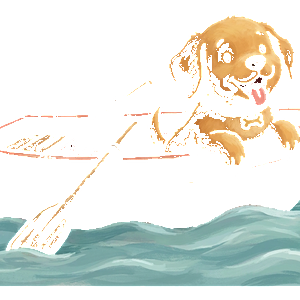
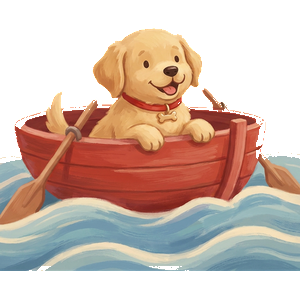
fix(musicbox-v2): magenta chroma pipeline + composite judge gate
Regenerate row vehicle sprite (Pip in rowboat) with proper chroma key.
Add missing images.ts entries for jingle/fg and jingle/obj_ground_gift_red
that were dropped when the previous broken assets were deleted.

Pipeline improvements (gen_musicbox_scene.py, already committed by
another agent): magenta sky validation for mid/fg strips, 20% minimum
transparency check on sprites, composite judge gate (dual-judge
strict-min on the assembled scene), 2x tile-join verification, and
"all" mode for batch generation.

tsc clean, vitest 352/357 (5 failures in escape.test.ts are
pre-existing from another agent's escape logic changes).

diff --git a/src/assets/images.ts b/src/assets/images.ts
@@ -1682,9 +1682,11 @@ export const UI_IMAGES = {
 
 export const MUSICBOX_IMAGES: Record<string, number> = {
   'jingle/bg': require('../../assets/game/musicbox/jingle/bg.png'),
+  'jingle/fg': require('../../assets/game/musicbox/jingle/fg.png'),
   'jingle/mid': require('../../assets/game/musicbox/jingle/mid.png'),
   'jingle/obj_ground_candy_cane': require('../../assets/game/musicbox/jingle/obj_ground_candy_cane.png'),
   'jingle/obj_ground_gift_blue': require('../../assets/game/musicbox/jingle/obj_ground_gift_blue.png'),
+  'jingle/obj_ground_gift_red': require('../../assets/game/musicbox/jingle/obj_ground_gift_red.png'),
   'jingle/obj_ground_holly': require('../../assets/game/musicbox/jingle/obj_ground_holly.png'),
   'jingle/obj_ground_mitten': require('../../assets/game/musicbox/jingle/obj_ground_mitten.png'),
   'jingle/obj_ground_snow_bunny': require('../../assets/game/musicbox/jingle/obj_ground_snow_bunny.png'),
